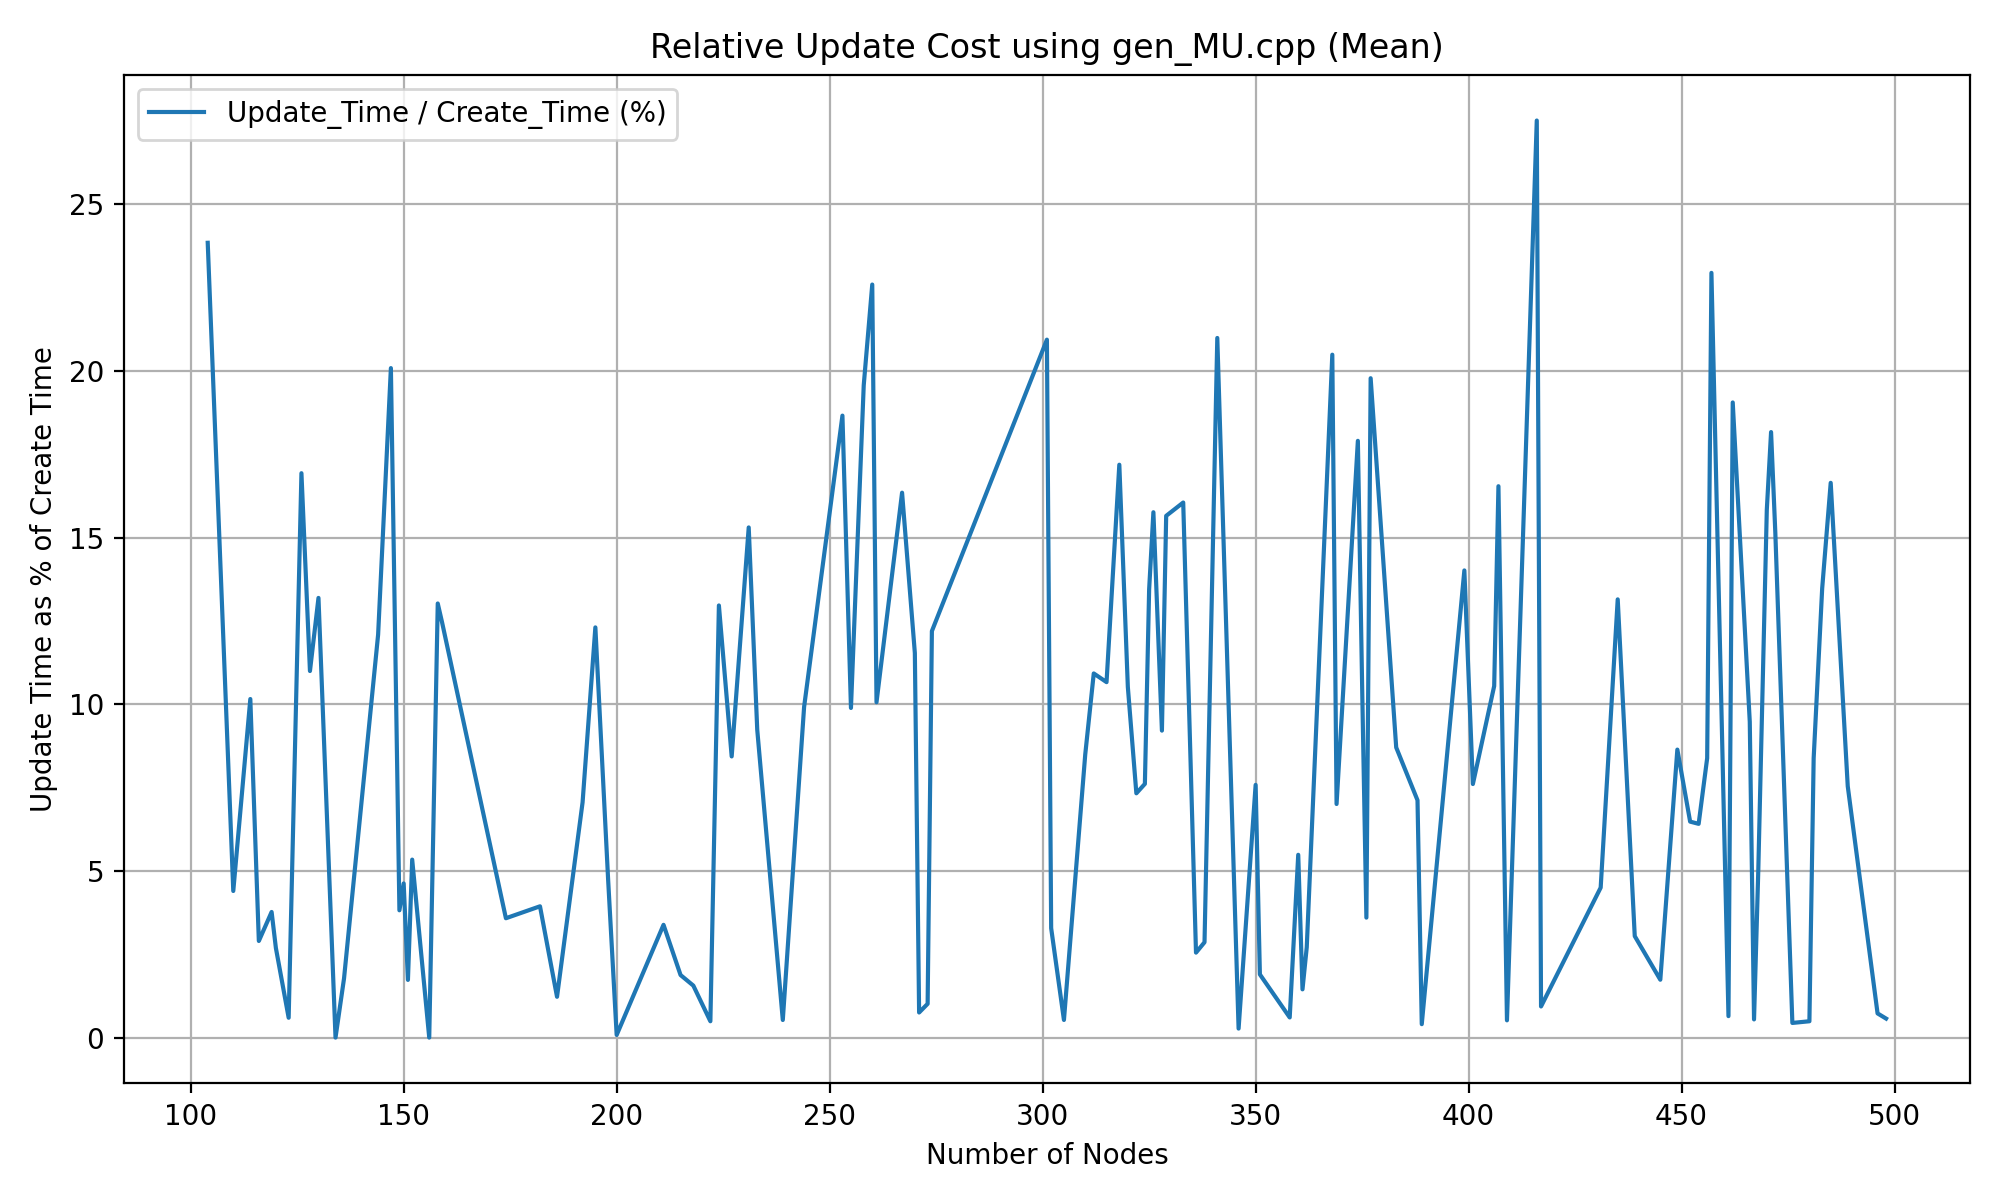
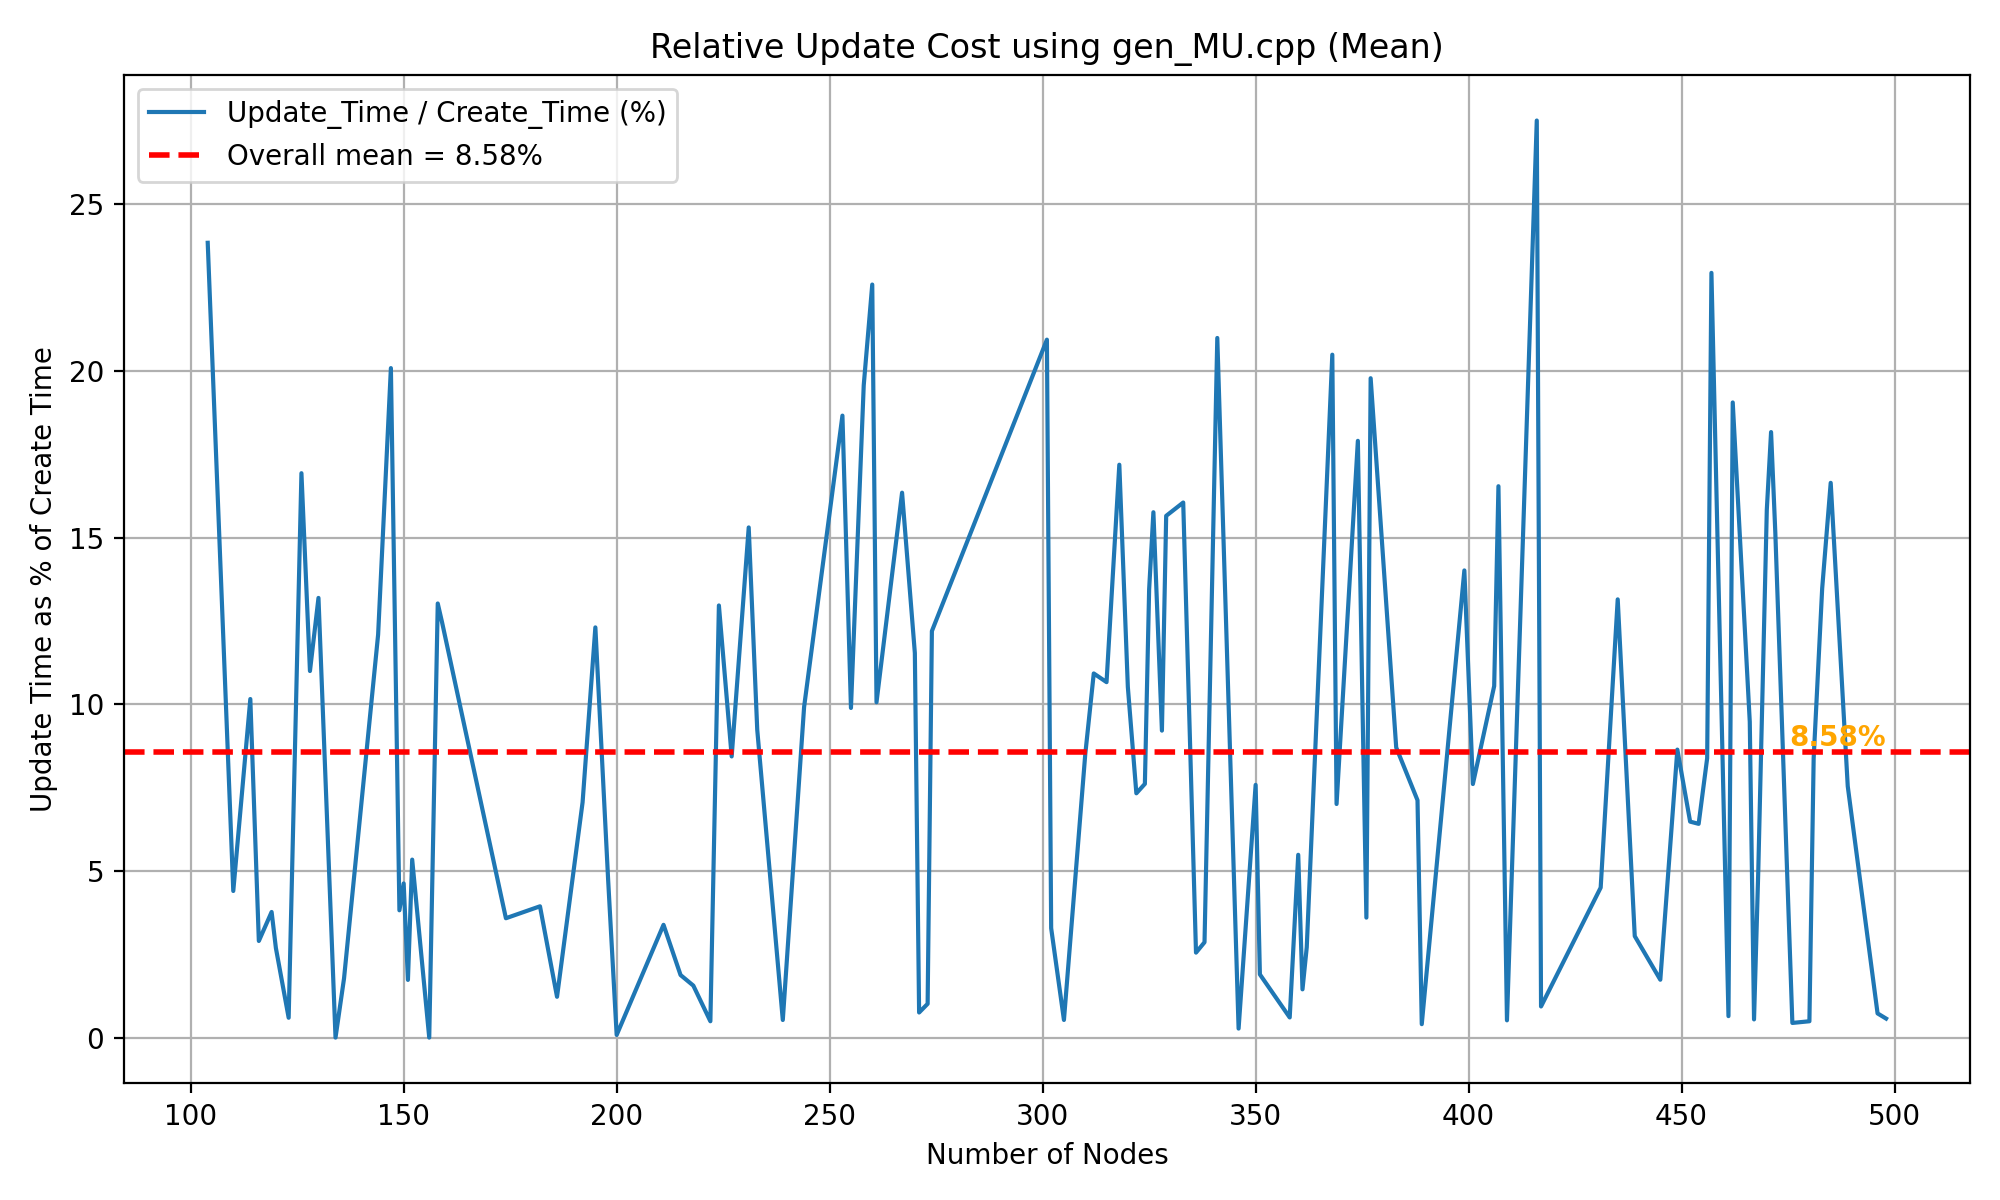
Added overall mean horizontal line to MU  plot

Changed region(s): [[0.062, 0.5858, 0.992, 0.6475], [0.062, 0.0925, 0.341, 0.1542]]

diff --git a/benchmarks/PlotterMU.py b/benchmarks/PlotterMU.py
@@ -79,11 +79,30 @@ grouped = df.groupby("Nodes", as_index=False)["RelativeUpdatePercent"].mean()
 
 nodes = grouped["Nodes"]
 ratio_percent = grouped["RelativeUpdatePercent"]
+overall_mean = grouped["RelativeUpdatePercent"].mean()
 
 # Plot
 plt.figure(figsize=(10, 6))
 
 plt.plot(nodes, ratio_percent, label="Update_Time / Create_Time (%)")
+plt.axhline(
+    y=overall_mean,
+    color="red",
+    linestyle="--",
+    linewidth=2,
+    label=f"Overall mean = {overall_mean:.2f}%"
+)
+
+plt.text(
+    nodes.max(),
+    overall_mean,
+    f"{overall_mean:.2f}%",
+    ha="right",
+    va="bottom",
+    fontsize=10,
+    color="orange",       
+    fontweight="bold"
+)
 
 plt.xlabel("Number of Nodes")
 plt.ylabel("Update Time as % of Create Time")
